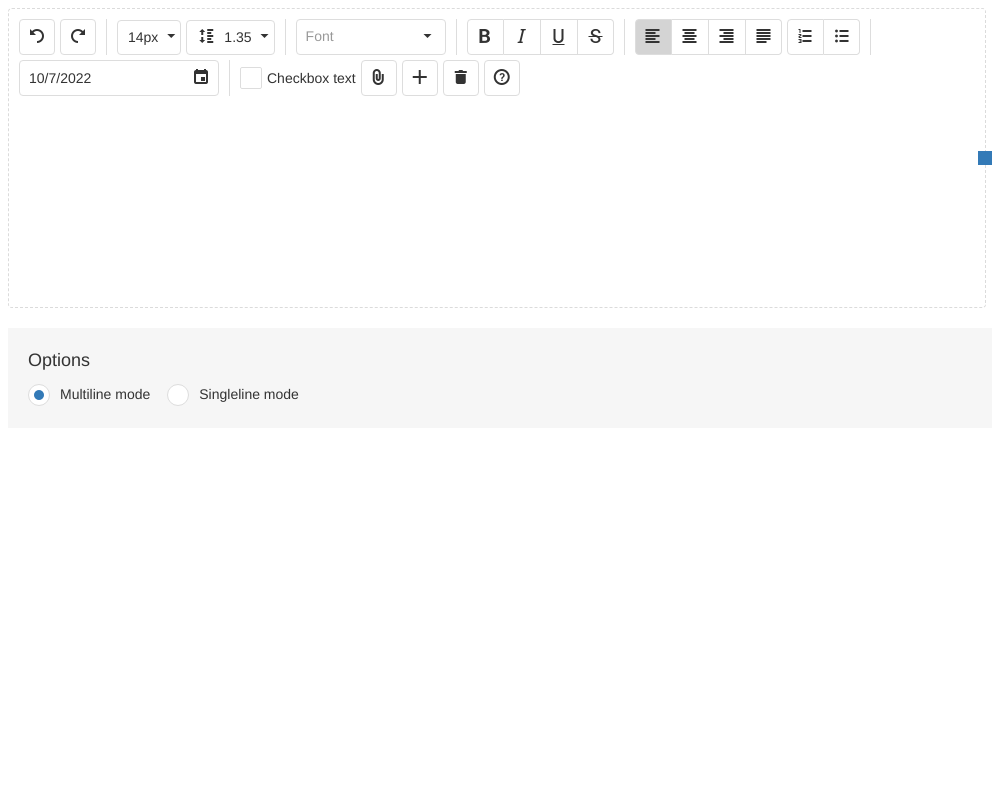
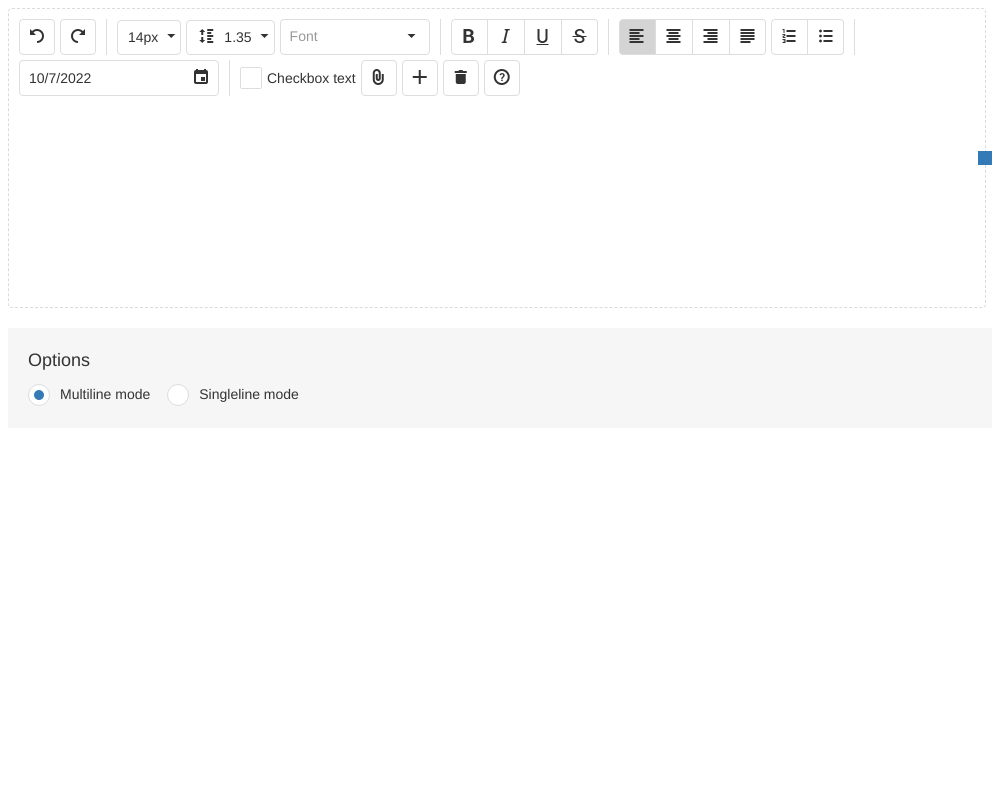
Update etalons && Fix selectbox width

Changed region(s): [[0.434, 0.0, 0.868, 0.0625], [0.279, 0.0312, 0.341, 0.0625]]

diff --git a/JSDemos/Demos/Toolbar/Multiline/React/App.js b/JSDemos/Demos/Toolbar/Multiline/React/App.js
@@ -13,7 +13,7 @@ import 'devextreme/ui/select_box';
 import {
   fontSizes,
   lineHeights,
-  fonts,
+  fontFamilies,
   fontStyles,
   textAligns,
   listTypes,
@@ -214,7 +214,7 @@ function App() {
               <SelectBox
                 placeholder="Font"
                 displayExpr="text"
-                dataSource={fonts}
+                dataSource={fontFamilies}
               ></SelectBox>
             </Item>
 

diff --git a/JSDemos/Demos/Toolbar/Multiline/React/data.js b/JSDemos/Demos/Toolbar/Multiline/React/data.js
@@ -13,7 +13,7 @@ export const lineHeights = [
   { lineHeight: 2, text: '2' },
 ];
 
-export const fonts = [
+export const fontFamilies = [
   { text: 'Arial' },
   { text: 'Courier New' },
   { text: 'Georgia' },

diff --git a/JSDemos/Demos/Toolbar/Multiline/Angular/app/app.component.css b/JSDemos/Demos/Toolbar/Multiline/Angular/app/app.component.css
@@ -16,6 +16,10 @@
   margin-bottom: 5px;
 }
 
+::ng-deep .dx-toolbar-menu-section .dx-selectbox {
+  width: auto;
+}
+
 ::ng-deep .dx-toolbar-menu-section .toolbar-separator-container {
   height: 1px;
 }

diff --git a/JSDemos/Demos/Toolbar/Multiline/React/styles.css b/JSDemos/Demos/Toolbar/Multiline/React/styles.css
@@ -16,6 +16,10 @@
   margin-bottom: 5px;
 }
 
+.dx-toolbar-menu-section .dx-selectbox {
+  width: auto;
+}
+
 .dx-toolbar-menu-section .toolbar-separator-container {
   height: 1px;
 }

diff --git a/JSDemos/Demos/Toolbar/Multiline/jQuery/styles.css b/JSDemos/Demos/Toolbar/Multiline/jQuery/styles.css
@@ -16,6 +16,10 @@
   margin-bottom: 5px;
 }
 
+.dx-toolbar-menu-section .dx-selectbox {
+  width: auto;
+}
+
 .dx-toolbar-menu-section .toolbar-separator-container {
   height: 1px;
 }

diff --git a/JSDemos/Demos/Toolbar/Multiline/Vue/App.vue b/JSDemos/Demos/Toolbar/Multiline/Vue/App.vue
@@ -406,6 +406,10 @@ export default {
   margin-bottom: 5px;
 }
 
+.dx-toolbar-menu-section .dx-selectbox {
+  width: auto;
+}
+
 .widget-container {
   width: calc(100% - 6px);
 }
